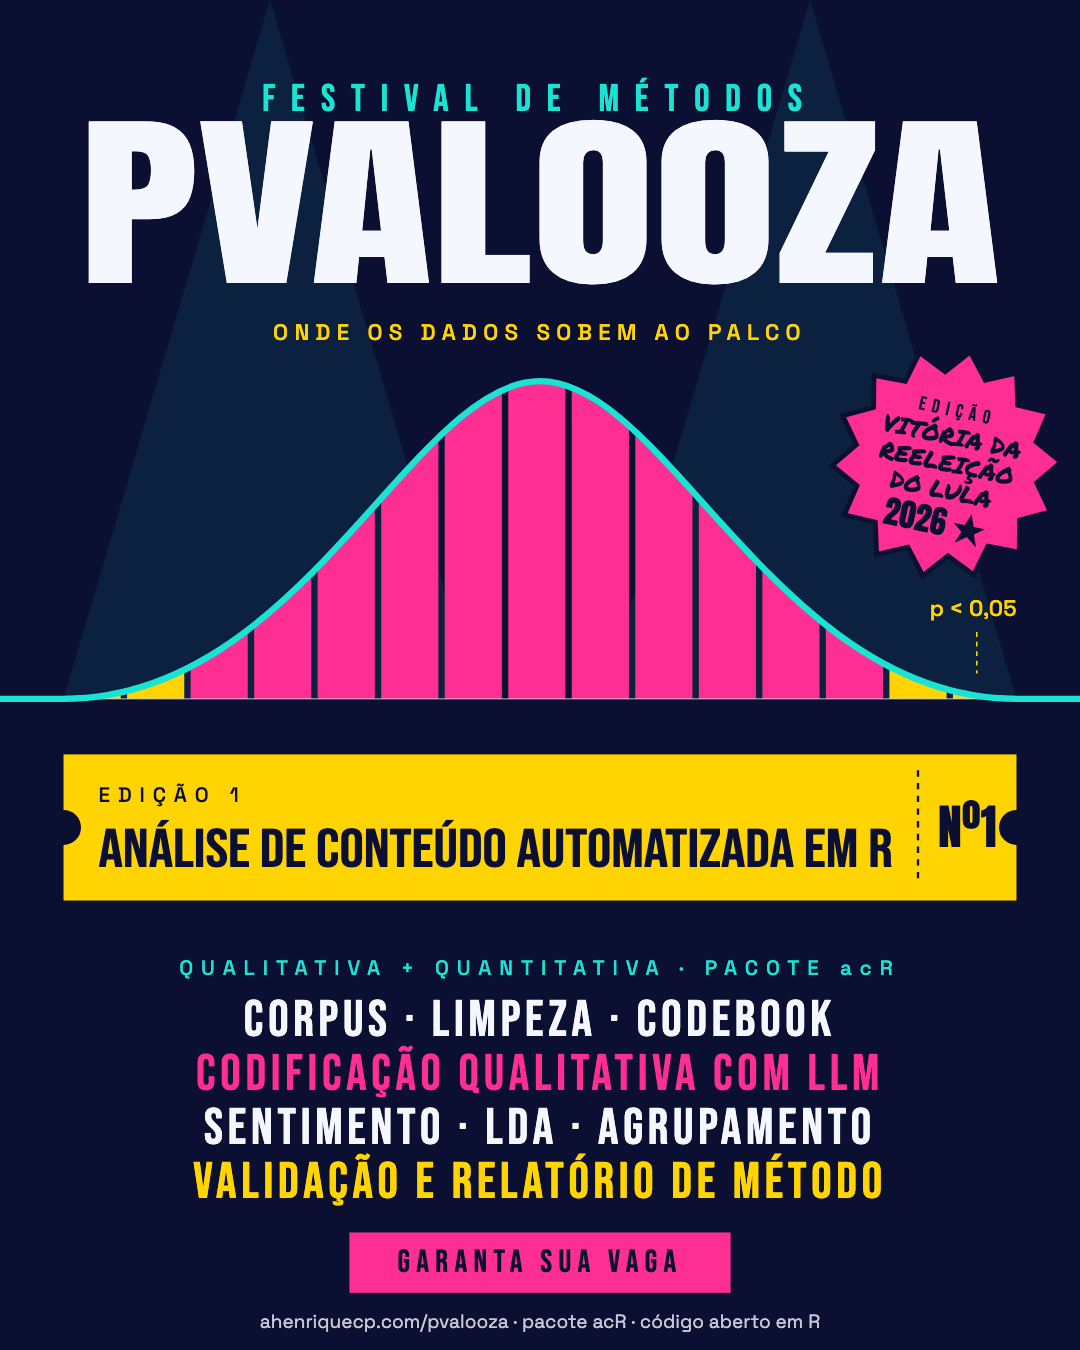
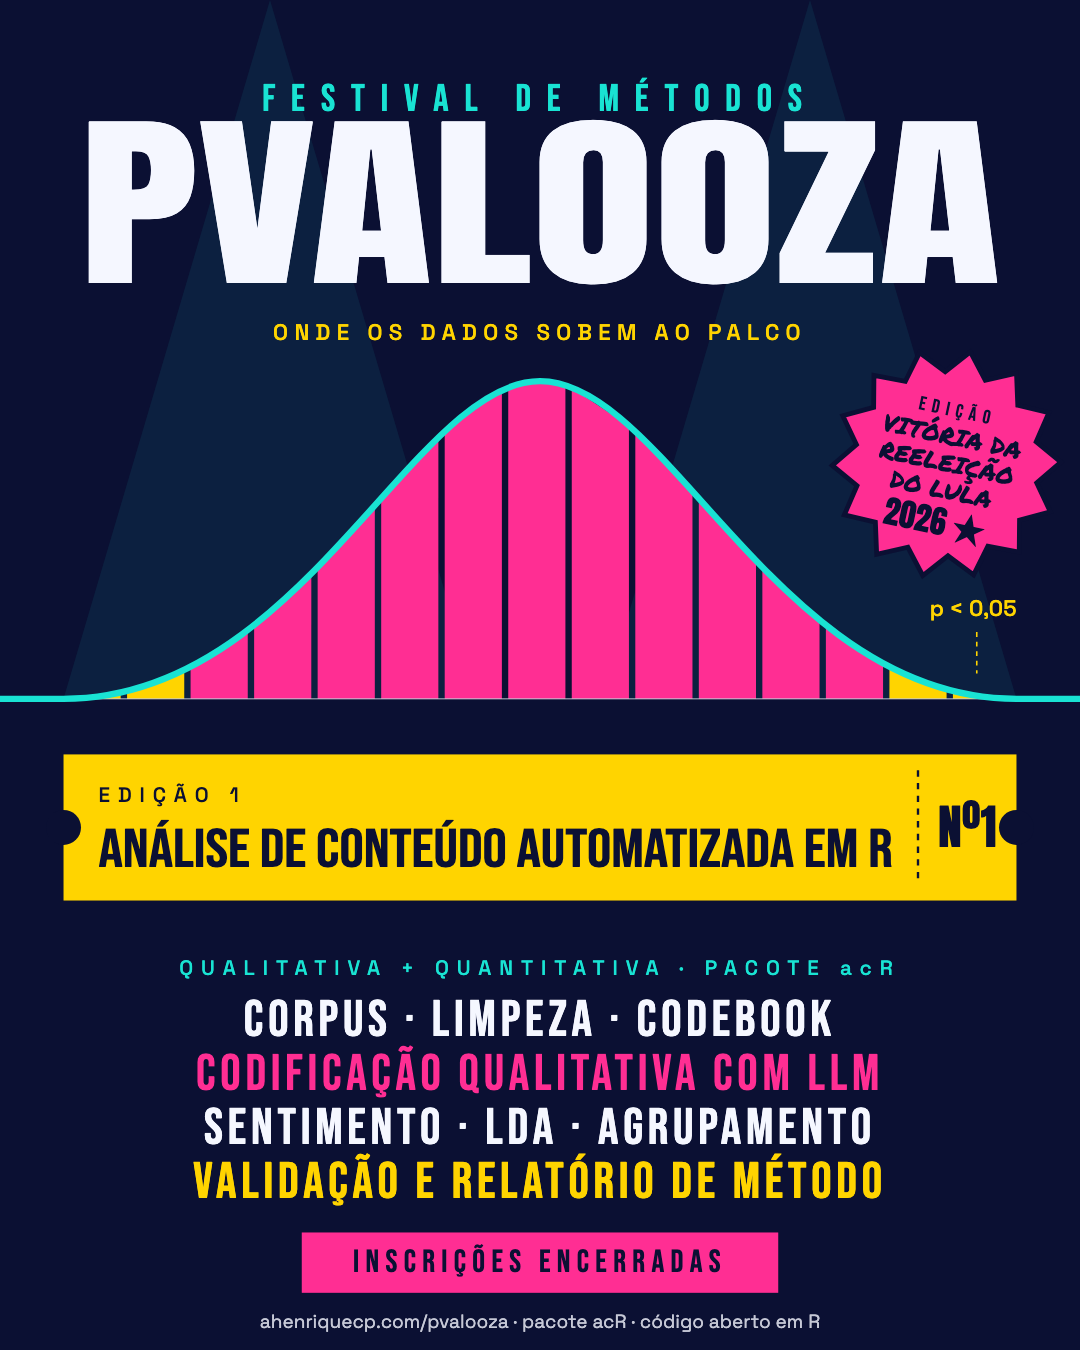
Inscricoes encerradas: site, calendario, cartaz e card atualizados

Changed region(s): [[0.5194, 0.9022, 0.7333, 0.9644], [0.275, 0.9022, 0.4889, 0.9644]]

diff --git a/site/styles.scss b/site/styles.scss
@@ -372,3 +372,9 @@ html { scroll-behavior: auto; }
 .sobre-hero .sobre::after { display: none; }
 
 .pv-pagina table td:first-child { width: 26%; }
+
+// Inscrições encerradas
+.pv-botao.encerrado { background: transparent; color: $amarelo !important; border: 2px dashed $amarelo; cursor: default; text-decoration: none !important; }
+.pv-botao.encerrado:hover { transform: none; box-shadow: none; }
+.pv-linha-tempo li.feito::before { background: $ciano; content: "✓"; color: $noite; font-size: .8rem; font-weight: 700; display: flex; align-items: center; justify-content: center; }
+.pv-linha-tempo li.feito .data { text-decoration: line-through; text-decoration-color: $rosa; text-decoration-thickness: 3px; }

diff --git a/docs/programa.md b/docs/programa.md
@@ -24,7 +24,7 @@
 | **Suporte** | Discussions e Issues do repositório no GitHub |
 | **Gravação** | As aulas não serão gravadas |
 | **Certificação** | Não há certificado nesta edição. Pode-se emitir declaração de participação, conforme demanda |
-| **Calendário de seleção** | Inscrições até 15 de novembro de 2026 · resultado do sorteio, por e-mail, até 20 de novembro · sorteados expressam interesse até 15 de dezembro · lista final de participantes até 27 de dezembro |
+| **Calendário de seleção** | Inscrições encerradas em 15 de novembro de 2026 · resultado do sorteio, por e-mail, até 20 de novembro · sorteados expressam interesse até 15 de dezembro · lista final de participantes até 27 de dezembro |
 
 ---
 
